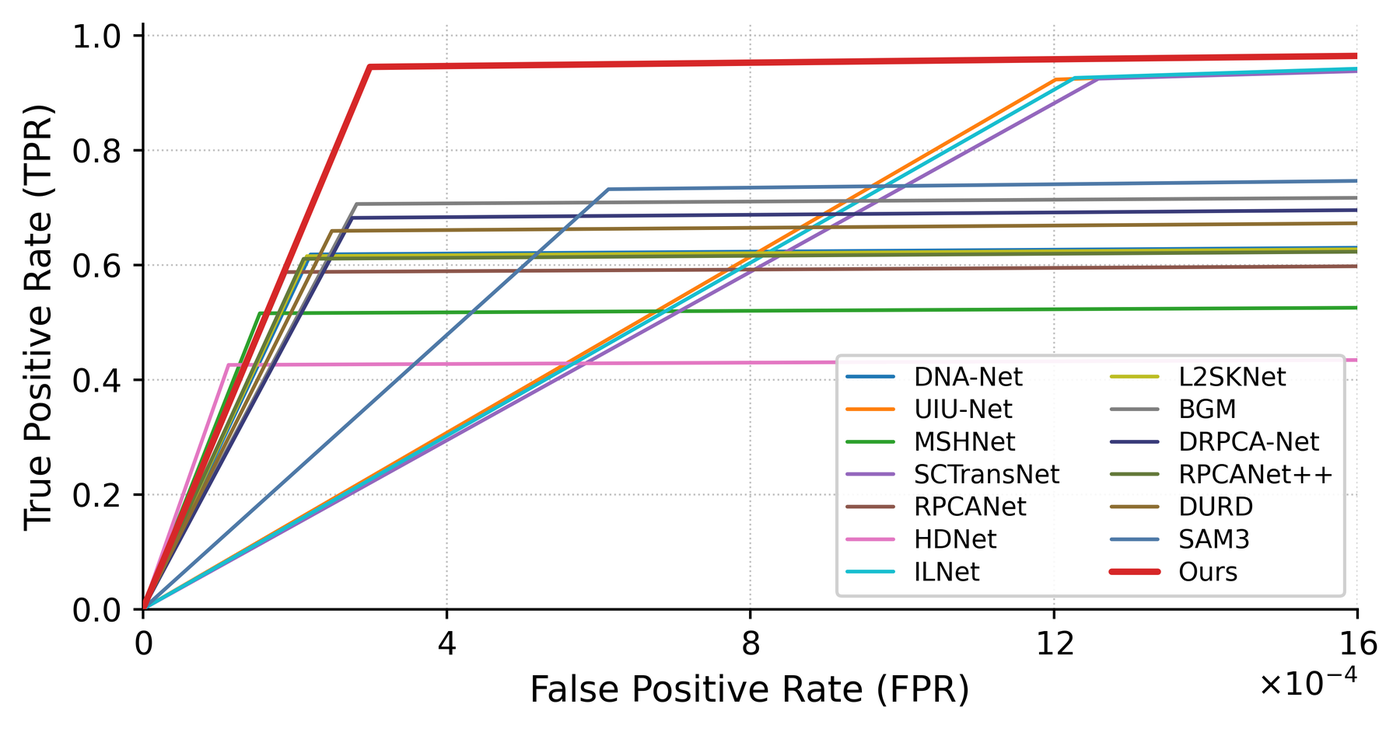
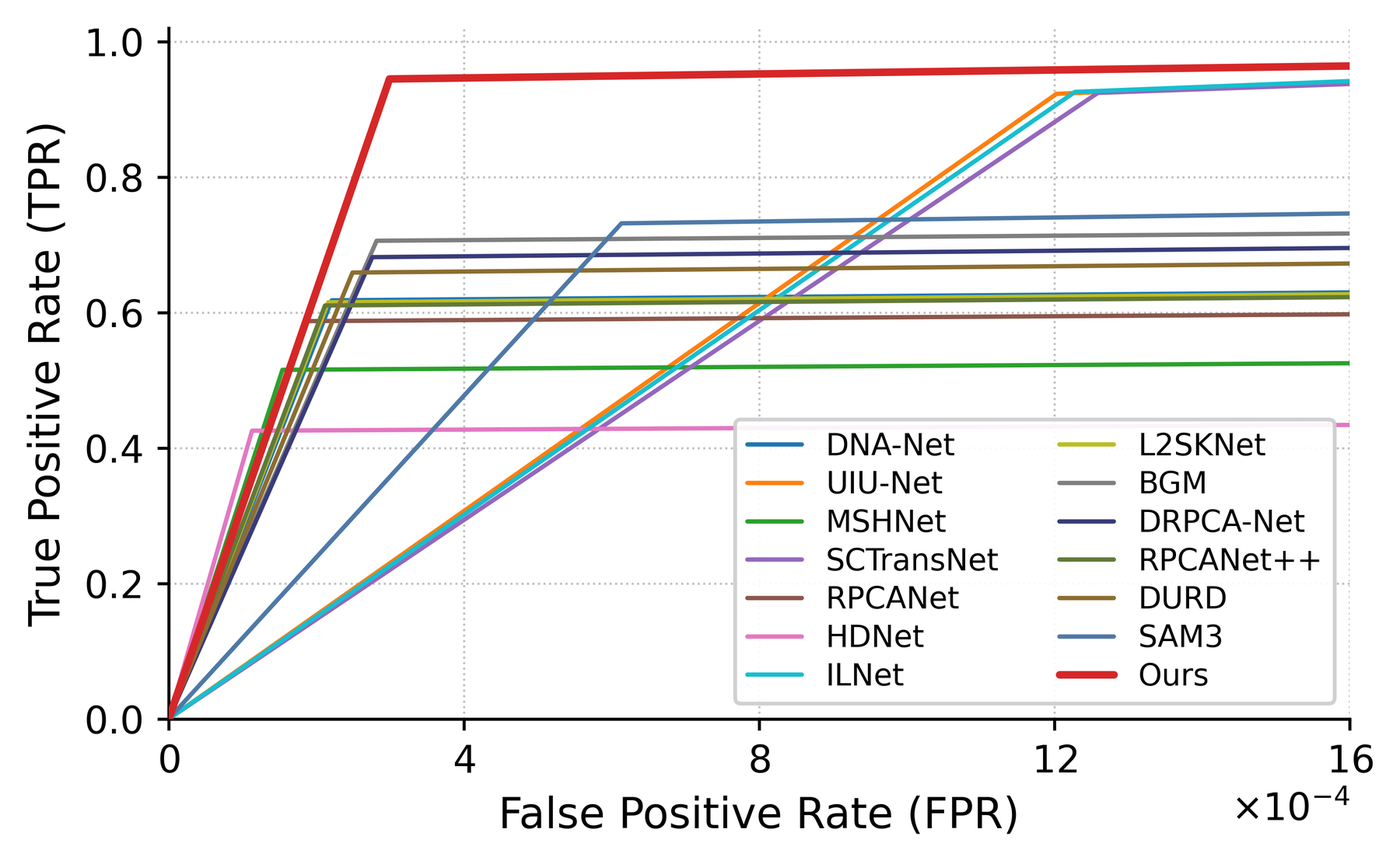
roc / pr_obj 画幅收窄到 1.62:1（底边缩短，高度不变）
- 原来 6.8x3.3 in（1.92:1，PNG 3645x1907）偏扁，宽度收到底边更短的比例：
  roc 用 --fig-width 5.6（高度仍 3.3），pr_obj 用 5.487x3.239 对齐，
  两张 PNG 同为 3087x1907（1.619:1）。
- 字号仍是 --font-scale 1.25，曲线样式（无点、实线、倒角、图例只写方法名）不变。
- 服务器同步：roc.png sha 437ffd29…、pr_obj.png 579505e1…；
  docs 预览与 AGENTS/README 的尺寸说明一并更新。

diff --git a/AGENTS.md b/AGENTS.md
@@ -67,7 +67,7 @@
 - 第三批（入表，行 29～32）：L2SKNet（TGRS25）、BGM（TGRS25）、DRPCA-Net（TGRS25）、DURD（TGRS26），均为 2025–2026 年、有官方代码的全监督单帧方法，12 个对比方法到此凑满。目录 `L2SKNet-main/`、`BGM-main/`、`DRPCA-Net-main/`、`DURD-main/`；训练设置：L2SKNet 150/Adam 5e-4、BGM 150/Adam 5e-4（两者模型输出已是概率，用概率空间 dataset 级 IoU）、DRPCA-Net 60/Adam 3e-5/dataset 级 SoftIoU + 0.01 MSE、DURD 100/Adam 1e-4/SoftIoU + 0.1 MSE。各处改动逐条写在对应实验记录与 [汇总](docs/Seal全监督基线评估汇总.md#训练不稳定与失败记录)。
 - 论文版式定性图（对齐 PDDiff Fig. 8/9）：[tools/build_paper_qualitative.py](tools/build_paper_qualitative.py)，每个样例两行（2D 二值面板 + 红框/放大插图；3D 响应面 `elev=26, azim=-64`、按面板 z 上限）。三条硬约束：① 3D 行必须喂**概率图**（`--surf-maps results/<M>/Seal/fullsup_test_maps`），二值图是 0/255 阶跃，画出来只有一根尖刺；② Seal 目标只有 3–5 px，`full` 版式（整幅 + 右下插图）在 0.87 in 列宽下几乎看不见，正式图用 `--roi-panels`（面板 = 6 倍放大 ROI，`--roi-min 64 --roi-margin 24`）；③ 11 列 × 11 样例按 9.6 in 出图，若按 7.2 in 排版表头掉到 5.6 pt，主图应拆成 `seal_pick6_roi` + `seal_pick5_roi` 两张。样例取 [docs/qualitative_rank_top200.json](docs/qualitative_rank_top200.json)（`score = F1(Ours) − mean_k F1(baseline_k)`，可用 [docs/qualitative_review_top200.html](docs/qualitative_review_top200.html) 逐图复核），当前采用排名 1,2,5,6,8,11,13,15,19,21,29 共 11 张，一键重建 [tools/make_paper_qualitative_pick.sh](tools/make_paper_qualitative_pick.sh)。Ours 预测在 `Ours/test_maps`（1,983 张概率图）、SAM3 在 `Ours/SAM3-test_maps`（同阈值 `>=128`）。版式规格、样例清单与读数见 [docs/Seal定性图_论文版式.md](docs/Seal定性图_论文版式.md)，预览 `docs/assets/seal_qualitative_pick6_roi.png`、`docs/assets/seal_qualitative_pick11_full.png`。全分辨率成品（600 dpi PNG + 矢量 PDF + meta，约 110 MB/版）按版本归档：服务器保留全部历史（v1 `Ours/qualitative/v1_20261104_11col/`、v2 `v2_20261105/`、v3 `v3_20261105/`、v4 `v4_20261105/`、v5 `v5_20261105/`、v6 `v6_20261105/`、v7 `v7_20261105/`、v8 `v8_20261105/`、v9 `v9_20261105/`、v10 `v10_20261105/`、v11 `v11_20261105/`、v12 `v12_20261105/`），本地只留最新一版在 `Ours/qualitative/v12_20261105/`；**整个 `Ours/qualitative/` 不进 git**（`.gitignore` 整目录排除，只有 `docs/assets/` 里的 1800 px 预览入库）。版式演进：v2 压紧列间距、3D 加网格 + 整数刻度 + 轴名、去掉黑色粗轴线；v3 加单图拆分与 Visio；v4 让 3D 盒子铺满格子（按格子尺寸渲染 PNG → 裁白边 → `aspect='auto'` 贴回）；**v5 解决「3D 白边仍偏大、峰不够高不够显眼」：裁边 26→6 px、平滑 σ 2.0→0.9、`vmax` 取平滑后峰值（峰顶到天花板）、Z 轴统一 0–255 保证跨列可比、盒子 z 比例 0.55→1.00、自定义 `seal3d` 色带（深蓝底→青→黄→亮红）+ `PowerNorm(0.45)`**；并新增 `--diag` 诊断面板（TP 白 / FP 红 / FN 绿 + 红框标 GT），Visio 改用诊断面板；**v6 把诊断面板的红框放大到至少占面板 36%（约 138 px、3 px 线）**；**v11：Ours 换成 1105 最新预测**（`Ours/test_maps` ← `1105Ours_result/Ours.zip`，旧预测存 `Ours/test_maps_20261105_prev`），版式同 v10；11 个样例在新预测下 F1 0.55–0.87、目标全检出（9 个胜全部基线，2 个仅比 SAM3 低 0.01–0.02），故沿用原 11 张；**v10 红框只留一个**：Image 列回到整幅 622×417（压缩成正方形）并画唯一一个正方形红框（v11 曾把边长统一为 `64×sqrt(sx·sy)≈48 px`；**v12 起 Image 列不再画任何红框**——统一 48 px 对 2688/2120/2894 三个大目标偏小、目标露到框外，而各列本来就是同一 ROI 的 6 倍放大，定位框不再必要，实测 Image 列 0 个红色像素；`--image-box` 仅保留为复现 v10/v11 的开关），Mask…Ours 不再画任何红框，保留 TP 白/FP 红/FN 绿；**v12 同时收紧 3D 刻度**：刻度数字向坐标轴收拢（x/y `pad` −3.0→−4.2、z −1.5→−2.2，字号 2.2→2.35），3D 渲染改用 `bbox_inches='tight'` 并统一贴到 848×804 画布（此前 3D 轴的数字画在 axes 之外、被画布直接裁掉，放进 Visio 后又被下一个样例的表头挡住），Visio `ALL` 页的 3D 图缩到 1.07 in 高（宽同比 1.129）让开下一块表头，2D 行与手画红框位置不动；`--image-mode crop417` 可换成 417×417 原比例窗口；**v9 去掉黑边**：ROI 从「以目标为中心后按边界裁」改成「固定边长正方形、贴边整体内移」，窗口永远完整落在图像内（此前 2735 这类贴右边界的样例裁成 64×43 后被补黑）；**v8 修正 Image 列**：原来它是整幅 622×417（红框=ROI 窗口），而 Mask/方法列是已经放大 6 倍的 ROI 块（红框=GT 定位框），两者天然不对应——现在 Image 列也取同一块 ROI 的 6 倍放大并套同一个定位框，11 列视野与框位置完全一致——红框是给人定位用的，v5 那版只比 GT 外扩 8 px，印刷尺寸下等于没有。**v7 再优化三点：① 3D 网格线 0.62 灰 / 0.45 pt、刻度数字 2.2 pt 近黑、每轴 3 个好刻度、去掉会撞车的 X/Y/Z 轴名；② Image 列 3D 改彩色（`seal3d` 色带 + 线性映射，与 PDDiff 一致）；③ 诊断面板遇到多目标时每个连通域各画一个红框（单目标 36% 面板、多目标 0.45/n）**。Visio 版由 [tools/make_visio_qualitative.ps1](tools/make_visio_qualitative.ps1) 用 Visio COM 生成（仅 Windows + 已装 Visio）：**第 1 页 `ALL` 把 11 个样例纵向摞成一页**（表头只出现一次，253 个形状，15×31.3 in），之后每样例一页（每页 34 个独立形状：表头矩形 + 22 张图片 + 页脚说明），全部可手动调整格式。
 - 定性图（论文拼图用）：12 个方法与 Ours 的二值预测图在 `results/<Method>/Seal/test_binary/`（1,983 张，`pixel >= 128` → 255），由 [tools/make_binary_maps.py](tools/make_binary_maps.py) 与 [tools/make_qualitative.sh](tools/make_qualitative.sh) 生成；样例拼图在服务器 `qualitative/<stem>/panel.png`（RGB/热红外/GT/预测叠加，13 行），样例清单 `docs/Seal定性对比样例.json`，说明见 [docs/Seal定性对比图.md](docs/Seal定性对比图.md)。
-- ROC / P-R / Pd–Fa 曲线：像素级曲线用 [tools/roc_hist.py](tools/roc_hist.py) 把预测值按 GT 前景（`gt > 127`）/背景分箱成 256 桶直方图（[tools/roc_hist_all.sh](tools/roc_hist_all.sh) → `results/roc_hist/<Method>.json`），目标级曲线用 [tools/target_curves.py](tools/target_curves.py) 在 63 个阈值上做 8 连通 + 质心 <3 px 一对一匹配（[tools/target_curves_all.sh](tools/target_curves_all.sh) 13 进程并行约 1.5 h → `results/target_curves/<Method>.json`）；出图分别是 [tools/plot_roc_pr.py](tools/plot_roc_pr.py) 与 [tools/plot_target_curves.py](tools/plot_target_curves.py)。产物按版本存 `Ours/roc_pr/<version>/`，**`v10_20261105/`（正文主图，Ours + 8 个重点对比方法：DNA-Net / MSHNet / RPCANet / HDNet / L2SKNet / BGM / RPCANet++ / SAM3）与 `v11_20261105/`（全量 14 条：再加 UIU-Net / SCTransNet / ILNet / DRPCA-Net / DURD）**，两者横轴都改成 **0–16×10⁻⁴（刻度 0/4/8/12/16）**，斜线因此更陡；**v10 用 1:1 坐标框（`--square`），v11 用 6.8×3.3 的长方形画布（不带 `--square`，约 1.92:1，用户偏好）**；`v9_20261105/`（全量）与 `v8_20261105/`（8 个）是 8×10⁻⁴ 宽扁版式的前身**，画法沿用 v5，Ours 红色加粗置顶（`--highlight Ours`）；`v7_20261105/` 是旧 Ours 预测的同一版式，`v6_20261105/` 是误删 Ours 的一版，二者仅留档；`v5_20261105/` 为 13 方法版（Ours + 12 基线），**`v12_20261105/` 为现行目标级 Pd–Fa（1105 批次，线性 + log）**，**`v13_20261105/` 是 v11 的 P-R 改进版**（画布、ROC 与 v11 逐点相同，只改 P-R 的显示：`--pr-min-pred 50000` + `--pr-endpoint-dot`，见下条），`v3_20261105/` 为旧预测的目标级版，`v4/v2/v1` 留档；每次同时存 PNG（600 dpi）与 PDF + `curves.json` + `summary.md`。**画法（用户明确要求）**：每个方法一条折线且只有两段直线——`(0,0) → 拐点 → (右边框, 平台)`；平台取右边框处的值（像素级 = TPR@FPR=窗口右端，目标级 = max Pd），拐点 = 沿横轴升序第一个 ≥0.98×平台 的点（`--two-segment`、`--knee-frac`）。横轴要够长（v10/v11 用 `--xmax 16e-4 --fig-width 4.8 --square`；v8/v9 为 `--xmax 8e-4 --fig-width 6.8`），否则平台贴右边框、看起来"戛然而止"；**`--square` 把坐标框设成 1:1**（`set_box_aspect(1)`），ROC 的斜线与纵轴夹角更小、P-R 是标准 45°；**`--legend-inside` 把图例放进坐标框**（ROC 右下、P-R 左下，>9 条自动两列），导出的 PNG 因此更紧凑（v10 正方形 2645×2564；v11 长方形 3589×1871）；两联图 `roc_pr` 的面板间距 0.28→0.14；改横轴时平台值按新的右边框取（`TPR@窗口右端`），所以 8→16×10⁻⁴ 后 SCTransNet/ILNet/UIU-Net 的平台从 0.88 升到 0.94；**面积指标仍报 `pAUC@5×10⁻⁴`**，该列不随画宽变化；P-R 保留 (0,1) 起点与 recall→1 的尾巴（`--pr-style v1`）；**P-R 为什么像"扇子且在半空截断"（v13 处理）**：Seal 预测是 8 位量化 + 大量硬零（`t=255` 时前景召回只有 0.25–0.61，多数方法在 28–57 % 的 GT 像素上恒为 0），recall 到不了 1，曲线右端自然停住；同时 `t` 接近 255 时整幅只剩几千个预测像素，precision 由个位数像素决定，于是 recall≈0 处冒出竖直毛刺、各条曲线分叉成扇面。v13 用两个**纯显示**开关处理、不动数据：`--pr-min-pred 50000` 丢掉"预测像素 < 5 万"的阈值（毛刺缩到几乎看不见）、`--pr-endpoint-dot` 在每条曲线末端加圆点（读作"到此为止"而非"画漏了"）；仍保留 (0,1) 哨兵，因为去掉后起点悬空（`--pr-style v2` 试过）。数据侧原因（硬零压低 recall）只能靠模型/后处理改，画图解决不了，分析见 [docs/Seal_ROC_PR曲线.md](docs/Seal_ROC_PR曲线.md)；**补充图 `v13_20261105/pr_1.{png,pdf}`**（`--pr-close`）把每条曲线从最后实测点**虚线**外推到 `(1,0)`、交接点画空心圆（实线=实测、虚线=外推）：这不是新数据，只说明"曲线本来就该到 (1,0)"——`recall=1` 时 precision 等于前景占比（Seal test 前景 105,712 px / 总 514,338,642 px = **2.06×10⁻⁴**），在 0–1 纵轴上即 0，所以补到 (1,0) 与补到 (1,2e-4) 肉眼无差；中间段按直线近似故称"大致"，虚线段不参与 pAUC/AP 积分，排名不变；补齐后各虚线在右下角**收成一束**是应有现象，不表示方法接近；**教科书式 P-R 两张补充图**：`v13_20261105/pr_2.{png,pdf}`（像素级、sklearn 惯例：256 个阈值含 `t=0`"全预测"、保留 (0,1) 哨兵，曲线自然终止于 (1,0)，AP 与 summary 一致 0.69984）与 `v13_20261105/pr_obj.{png,pdf}`（**对象级**：`recall` = 表中 Pd、`precision` = 匹配连通域 / 全部预测连通域，匹配规则与 Pd/Fa 相同；`t=128` 的 recall 与表中 Pd 逐位吻合、精度 Ours 0.960 vs 基线 0.66–0.75，Ours AP 0.890 vs 0.544–0.596，形状与参考图同形"高平台 + 右端陡降"，末端用实线同色补到 (1,0)、不画点、拐角 `--corner-radius 0.03` 贝塞尔倒角，**图例只写方法名**（AP 见 [docs/Seal_ROC_PR曲线.md](docs/Seal_ROC_PR曲线.md) 的表，要标回图上加 `--show-ap`）；**字号**：`roc` 与 `pr_obj` 用 `--font-scale 1.25` 出图（轴标签 9→11.25 pt、刻度 8→10 pt、图例 6.4→8 pt），两张 PNG 同为 3645×1907（`plot_roc_pr.py`、`plot_pr_object.py` 都带该开关，默认 1.0；v13 的 `pr.png`/`roc_pr.png` 仍是 1.0 版）；图注须写明 0.71–0.92 → 1.0 那段不是实测，因对象级召回上限只有 0.71–0.92））；实现 [tools/target_pr.py](tools/target_pr.py)（输出 `results/target_pr/<stem>.json`，[tools/target_pr_all.sh](tools/target_pr_all.sh) 并行约 12 min）、[tools/plot_pr_object.py](tools/plot_pr_object.py)、[tools/plot_pr_textbook.py](tools/plot_pr_textbook.py)；**参考图"精度贴 1.0 平推"像素级做不到**——0.02 % 前景下 255 这一筒的精度只有 Ours 0.835、SAM3 0.651、DNA-Net 0.390，像素级只能从 0.83 起步；正文若配像素级 ROC 用 `pr_2`，配目标级 Pd–Fa（v12）用 `pr_obj`，两者 AP 不可互比、都不进 xlsx；图例贴紧坐标轴右缘（`bbox_to_anchor=(ax.x1+0.012, …)`，锚在固定图幅比例上会留一大片空白）；`--highlight` 指定加粗置顶的方法（默认 `Ours`，方法集里没有它时不加粗）；**红色只留给 highlight**，其余曲线从不含红色的 16 色调色板里取（`color_map()`），否则 14 条曲线时第一个基线和 Ours 会同为红色。**一致性**：像素级 `t=128` 的 precision/recall 可复原表中 F1/IoU（Ours precision 0.58130、recall 0.82963 → F1 0.68361、IoU 0.51931，与第 20 行一致；旧预测同点为 0.64637/0.59388 → 0.61912/0.44835）；目标级 `t=128` 的 Pd/Fa 与表中 13 行全部逐位吻合（Ours 0.89151 / 1.717e-05，与第 20 行一致；旧预测 0.82731 / 2.100e-06 存档于 `results/target_curves/Ours_prev_20261105.json`）。**读图**：① 面积指标报 **pAUC@5×10⁻⁴**（基线操作点 Fa@t=128 ≤ 2.4×10⁻⁴）；v8 换上 1105 的最新 Ours 后，两个窗口的 pAUC（**0.85234 / 0.89420**）与 AP（**0.69984**）都第一，像素 TPR@t=128 从 0.594 提到 **0.830**、FPR 从 6.7×10⁻⁵ 升到 1.2×10⁻⁴（仍是 9 个里第二低）；ROC 上 Ours 在 FPR≈3×10⁻⁴ 就到 0.94 平台，其余 8 个最高只有 0.737；SAM3 平台最高（0.737）但拐点在 4.9×10⁻⁴、Fa 是 Ours 的 3.6 倍，属"用更多误检换更高检出"，正文要把 Fa 一并给出；画到 8×10⁻⁴ 后按窗口积的 `pAUC@8×10⁻⁴` 会把弥散输出方法抬高，summary 两个窗口都列；② 全范围 AUC 不能用来排名（几乎不预测前景的方法 0.977–0.981），与 S/MAE 被背景主导同类；③ 目标级图（`v12_20261105/`，1105 批次）Ours 平台 Pd 0.922 最高、拐点 Fa 6.0×10⁻⁶ 比次优 HDNet（5.2×10⁻⁵）低 8.6 倍，拐点 Fa 跨度 17 倍，**目标级仍主推 log 轴**；④ 像素级 `Pd@t=128` 是前景像素召回率，与表中目标级 Pd 不同口径。曲线成品按同样目录结构同步到服务器 `Ours/roc_pr/`，重画脚本同步在服务器 `tools/`；1105 的 Ours 预测包同时上传到服务器 `Ours/1105Ours_result/Ours.zip`。**曲线与第 20 行 Ours 的八项指标现在同为 1105 这批预测**，可以互相引证；旧预测（`test_maps_20261105_prev`）的曲线与指标只作历史对照。口径、版本对照与复现命令见 [docs/Seal_ROC_PR曲线.md](docs/Seal_ROC_PR曲线.md)，预览 `docs/assets/seal_roc_pr_v13.png`（现行，全量 14 条）、`docs/assets/seal_roc_pr_v10.png`（8 个对比方法版）、`docs/assets/seal_pd_fa_v12.png`（现行目标级）、`docs/assets/seal_pd_fa_v3.png`（旧预测目标级）。
+- ROC / P-R / Pd–Fa 曲线：像素级曲线用 [tools/roc_hist.py](tools/roc_hist.py) 把预测值按 GT 前景（`gt > 127`）/背景分箱成 256 桶直方图（[tools/roc_hist_all.sh](tools/roc_hist_all.sh) → `results/roc_hist/<Method>.json`），目标级曲线用 [tools/target_curves.py](tools/target_curves.py) 在 63 个阈值上做 8 连通 + 质心 <3 px 一对一匹配（[tools/target_curves_all.sh](tools/target_curves_all.sh) 13 进程并行约 1.5 h → `results/target_curves/<Method>.json`）；出图分别是 [tools/plot_roc_pr.py](tools/plot_roc_pr.py) 与 [tools/plot_target_curves.py](tools/plot_target_curves.py)。产物按版本存 `Ours/roc_pr/<version>/`，**`v10_20261105/`（正文主图，Ours + 8 个重点对比方法：DNA-Net / MSHNet / RPCANet / HDNet / L2SKNet / BGM / RPCANet++ / SAM3）与 `v11_20261105/`（全量 14 条：再加 UIU-Net / SCTransNet / ILNet / DRPCA-Net / DURD）**，两者横轴都改成 **0–16×10⁻⁴（刻度 0/4/8/12/16）**，斜线因此更陡；**v10 用 1:1 坐标框（`--square`），v11 用 6.8×3.3 的长方形画布（不带 `--square`，约 1.92:1，用户偏好）**；`v9_20261105/`（全量）与 `v8_20261105/`（8 个）是 8×10⁻⁴ 宽扁版式的前身**，画法沿用 v5，Ours 红色加粗置顶（`--highlight Ours`）；`v7_20261105/` 是旧 Ours 预测的同一版式，`v6_20261105/` 是误删 Ours 的一版，二者仅留档；`v5_20261105/` 为 13 方法版（Ours + 12 基线），**`v12_20261105/` 为现行目标级 Pd–Fa（1105 批次，线性 + log）**，**`v13_20261105/` 是 v11 的 P-R 改进版**（画布、ROC 与 v11 逐点相同，只改 P-R 的显示：`--pr-min-pred 50000` + `--pr-endpoint-dot`，见下条），`v3_20261105/` 为旧预测的目标级版，`v4/v2/v1` 留档；每次同时存 PNG（600 dpi）与 PDF + `curves.json` + `summary.md`。**画法（用户明确要求）**：每个方法一条折线且只有两段直线——`(0,0) → 拐点 → (右边框, 平台)`；平台取右边框处的值（像素级 = TPR@FPR=窗口右端，目标级 = max Pd），拐点 = 沿横轴升序第一个 ≥0.98×平台 的点（`--two-segment`、`--knee-frac`）。横轴要够长（v10/v11 用 `--xmax 16e-4 --fig-width 4.8 --square`；v8/v9 为 `--xmax 8e-4 --fig-width 6.8`），否则平台贴右边框、看起来"戛然而止"；**`--square` 把坐标框设成 1:1**（`set_box_aspect(1)`），ROC 的斜线与纵轴夹角更小、P-R 是标准 45°；**`--legend-inside` 把图例放进坐标框**（ROC 右下、P-R 左下，>9 条自动两列），导出的 PNG 因此更紧凑（v10 正方形 2645×2564；v11 长方形 3589×1871）；两联图 `roc_pr` 的面板间距 0.28→0.14；改横轴时平台值按新的右边框取（`TPR@窗口右端`），所以 8→16×10⁻⁴ 后 SCTransNet/ILNet/UIU-Net 的平台从 0.88 升到 0.94；**面积指标仍报 `pAUC@5×10⁻⁴`**，该列不随画宽变化；P-R 保留 (0,1) 起点与 recall→1 的尾巴（`--pr-style v1`）；**P-R 为什么像"扇子且在半空截断"（v13 处理）**：Seal 预测是 8 位量化 + 大量硬零（`t=255` 时前景召回只有 0.25–0.61，多数方法在 28–57 % 的 GT 像素上恒为 0），recall 到不了 1，曲线右端自然停住；同时 `t` 接近 255 时整幅只剩几千个预测像素，precision 由个位数像素决定，于是 recall≈0 处冒出竖直毛刺、各条曲线分叉成扇面。v13 用两个**纯显示**开关处理、不动数据：`--pr-min-pred 50000` 丢掉"预测像素 < 5 万"的阈值（毛刺缩到几乎看不见）、`--pr-endpoint-dot` 在每条曲线末端加圆点（读作"到此为止"而非"画漏了"）；仍保留 (0,1) 哨兵，因为去掉后起点悬空（`--pr-style v2` 试过）。数据侧原因（硬零压低 recall）只能靠模型/后处理改，画图解决不了，分析见 [docs/Seal_ROC_PR曲线.md](docs/Seal_ROC_PR曲线.md)；**补充图 `v13_20261105/pr_1.{png,pdf}`**（`--pr-close`）把每条曲线从最后实测点**虚线**外推到 `(1,0)`、交接点画空心圆（实线=实测、虚线=外推）：这不是新数据，只说明"曲线本来就该到 (1,0)"——`recall=1` 时 precision 等于前景占比（Seal test 前景 105,712 px / 总 514,338,642 px = **2.06×10⁻⁴**），在 0–1 纵轴上即 0，所以补到 (1,0) 与补到 (1,2e-4) 肉眼无差；中间段按直线近似故称"大致"，虚线段不参与 pAUC/AP 积分，排名不变；补齐后各虚线在右下角**收成一束**是应有现象，不表示方法接近；**教科书式 P-R 两张补充图**：`v13_20261105/pr_2.{png,pdf}`（像素级、sklearn 惯例：256 个阈值含 `t=0`"全预测"、保留 (0,1) 哨兵，曲线自然终止于 (1,0)，AP 与 summary 一致 0.69984）与 `v13_20261105/pr_obj.{png,pdf}`（**对象级**：`recall` = 表中 Pd、`precision` = 匹配连通域 / 全部预测连通域，匹配规则与 Pd/Fa 相同；`t=128` 的 recall 与表中 Pd 逐位吻合、精度 Ours 0.960 vs 基线 0.66–0.75，Ours AP 0.890 vs 0.544–0.596，形状与参考图同形"高平台 + 右端陡降"，末端用实线同色补到 (1,0)、不画点、拐角 `--corner-radius 0.03` 贝塞尔倒角，**图例只写方法名**（AP 见 [docs/Seal_ROC_PR曲线.md](docs/Seal_ROC_PR曲线.md) 的表，要标回图上加 `--show-ap`）；**字号**：`roc` 与 `pr_obj` 用 `--font-scale 1.25` 出图（轴标签 9→11.25 pt、刻度 8→10 pt、图例 6.4→8 pt），画幅同步收窄到 **1.62:1**（`--fig-width 5.6`，高度固定 3.3；pr_obj 用 5.487×3.239 对齐），两张 PNG 同为 3087×1907（`plot_roc_pr.py`、`plot_pr_object.py` 都带 `--font-scale`，默认 1.0；v13 的 `pr.png`/`roc_pr.png` 仍是 1.0 版、1.92:1 宽幅）；图注须写明 0.71–0.92 → 1.0 那段不是实测，因对象级召回上限只有 0.71–0.92））；实现 [tools/target_pr.py](tools/target_pr.py)（输出 `results/target_pr/<stem>.json`，[tools/target_pr_all.sh](tools/target_pr_all.sh) 并行约 12 min）、[tools/plot_pr_object.py](tools/plot_pr_object.py)、[tools/plot_pr_textbook.py](tools/plot_pr_textbook.py)；**参考图"精度贴 1.0 平推"像素级做不到**——0.02 % 前景下 255 这一筒的精度只有 Ours 0.835、SAM3 0.651、DNA-Net 0.390，像素级只能从 0.83 起步；正文若配像素级 ROC 用 `pr_2`，配目标级 Pd–Fa（v12）用 `pr_obj`，两者 AP 不可互比、都不进 xlsx；图例贴紧坐标轴右缘（`bbox_to_anchor=(ax.x1+0.012, …)`，锚在固定图幅比例上会留一大片空白）；`--highlight` 指定加粗置顶的方法（默认 `Ours`，方法集里没有它时不加粗）；**红色只留给 highlight**，其余曲线从不含红色的 16 色调色板里取（`color_map()`），否则 14 条曲线时第一个基线和 Ours 会同为红色。**一致性**：像素级 `t=128` 的 precision/recall 可复原表中 F1/IoU（Ours precision 0.58130、recall 0.82963 → F1 0.68361、IoU 0.51931，与第 20 行一致；旧预测同点为 0.64637/0.59388 → 0.61912/0.44835）；目标级 `t=128` 的 Pd/Fa 与表中 13 行全部逐位吻合（Ours 0.89151 / 1.717e-05，与第 20 行一致；旧预测 0.82731 / 2.100e-06 存档于 `results/target_curves/Ours_prev_20261105.json`）。**读图**：① 面积指标报 **pAUC@5×10⁻⁴**（基线操作点 Fa@t=128 ≤ 2.4×10⁻⁴）；v8 换上 1105 的最新 Ours 后，两个窗口的 pAUC（**0.85234 / 0.89420**）与 AP（**0.69984**）都第一，像素 TPR@t=128 从 0.594 提到 **0.830**、FPR 从 6.7×10⁻⁵ 升到 1.2×10⁻⁴（仍是 9 个里第二低）；ROC 上 Ours 在 FPR≈3×10⁻⁴ 就到 0.94 平台，其余 8 个最高只有 0.737；SAM3 平台最高（0.737）但拐点在 4.9×10⁻⁴、Fa 是 Ours 的 3.6 倍，属"用更多误检换更高检出"，正文要把 Fa 一并给出；画到 8×10⁻⁴ 后按窗口积的 `pAUC@8×10⁻⁴` 会把弥散输出方法抬高，summary 两个窗口都列；② 全范围 AUC 不能用来排名（几乎不预测前景的方法 0.977–0.981），与 S/MAE 被背景主导同类；③ 目标级图（`v12_20261105/`，1105 批次）Ours 平台 Pd 0.922 最高、拐点 Fa 6.0×10⁻⁶ 比次优 HDNet（5.2×10⁻⁵）低 8.6 倍，拐点 Fa 跨度 17 倍，**目标级仍主推 log 轴**；④ 像素级 `Pd@t=128` 是前景像素召回率，与表中目标级 Pd 不同口径。曲线成品按同样目录结构同步到服务器 `Ours/roc_pr/`，重画脚本同步在服务器 `tools/`；1105 的 Ours 预测包同时上传到服务器 `Ours/1105Ours_result/Ours.zip`。**曲线与第 20 行 Ours 的八项指标现在同为 1105 这批预测**，可以互相引证；旧预测（`test_maps_20261105_prev`）的曲线与指标只作历史对照。口径、版本对照与复现命令见 [docs/Seal_ROC_PR曲线.md](docs/Seal_ROC_PR曲线.md)，预览 `docs/assets/seal_roc_pr_v13.png`（现行，全量 14 条）、`docs/assets/seal_roc_pr_v10.png`（8 个对比方法版）、`docs/assets/seal_pd_fa_v12.png`（现行目标级）、`docs/assets/seal_pd_fa_v3.png`（旧预测目标级）。
 - IoU 的边界敏感性：Seal 目标平均 14.3 像素，把 GT 膨胀/腐蚀 1 像素当预测只能得到 IoU 0.3910 / 0.0826；表中 IoU 0.19–0.31 对应约 1–2 像素边界误差，不能读作分割质量百分比，须与 Fw/F1/Pd/Fa 合看，详见 [定义对照](docs/小目标评价指标_定义与代码对照.md#iou-的边界敏感性seal-gt-实测)。
 - 实验记录：[ACM](docs/ACM_Seal实验记录.md)、[DNA-Net](docs/DNANet_Seal实验记录.md)、[MSHNet](docs/MSHNet_Seal实验记录.md)、[UIU-Net](docs/UIU-Net_Seal实验记录.md)、[SCTransNet](docs/SCTransNet_Seal实验记录.md)、[RPCANet](docs/RPCANet_Seal实验记录.md)、[HDNet](docs/HDNet_Seal实验记录.md)、[ILNet](docs/ILNet_Seal实验记录.md)、[RPCANet++](docs/RPCANet++_Seal实验记录.md)、[L2SKNet](docs/L2SKNet_Seal实验记录.md)、[BGM](docs/BGM_Seal实验记录.md)、[DRPCA-Net](docs/DRPCA-Net_Seal实验记录.md)、[DURD](docs/DURD_Seal实验记录.md)、[DHiF](docs/DHiF_Seal实验记录.md)，汇总见 [Seal全监督基线评估汇总](docs/Seal全监督基线评估汇总.md)，定性图见 [Seal定性对比图](docs/Seal定性对比图.md)。
 

diff --git a/README.md b/README.md
@@ -70,7 +70,7 @@
 - 第三批（入表，行 29～32）：L2SKNet（TGRS25）、BGM（TGRS25）、DRPCA-Net（TGRS25）、DURD（TGRS26），均为 2025–2026 年、有官方代码的全监督单帧方法，12 个对比方法到此凑满。目录 `L2SKNet-main/`、`BGM-main/`、`DRPCA-Net-main/`、`DURD-main/`；训练设置：L2SKNet 150/Adam 5e-4、BGM 150/Adam 5e-4（两者模型输出已是概率，用概率空间 dataset 级 IoU）、DRPCA-Net 60/Adam 3e-5/dataset 级 SoftIoU + 0.01 MSE、DURD 100/Adam 1e-4/SoftIoU + 0.1 MSE。各处改动逐条写在对应实验记录与 [汇总](docs/Seal全监督基线评估汇总.md#训练不稳定与失败记录)。
 - 论文版式定性图（对齐 PDDiff Fig. 8/9）：[tools/build_paper_qualitative.py](tools/build_paper_qualitative.py)，每个样例两行（2D 二值面板 + 红框/放大插图；3D 响应面 `elev=26, azim=-64`、按面板 z 上限）。三条硬约束：① 3D 行必须喂**概率图**（`--surf-maps results/<M>/Seal/fullsup_test_maps`），二值图是 0/255 阶跃，画出来只有一根尖刺；② Seal 目标只有 3–5 px，`full` 版式（整幅 + 右下插图）在 0.87 in 列宽下几乎看不见，正式图用 `--roi-panels`（面板 = 6 倍放大 ROI，`--roi-min 64 --roi-margin 24`）；③ 11 列 × 11 样例按 9.6 in 出图，若按 7.2 in 排版表头掉到 5.6 pt，主图应拆成 `seal_pick6_roi` + `seal_pick5_roi` 两张。样例取 [docs/qualitative_rank_top200.json](docs/qualitative_rank_top200.json)（`score = F1(Ours) − mean_k F1(baseline_k)`，可用 [docs/qualitative_review_top200.html](docs/qualitative_review_top200.html) 逐图复核），当前采用排名 1,2,5,6,8,11,13,15,19,21,29 共 11 张，一键重建 [tools/make_paper_qualitative_pick.sh](tools/make_paper_qualitative_pick.sh)。Ours 预测在 `Ours/test_maps`（1,983 张概率图）、SAM3 在 `Ours/SAM3-test_maps`（同阈值 `>=128`）。版式规格、样例清单与读数见 [docs/Seal定性图_论文版式.md](docs/Seal定性图_论文版式.md)，预览 `docs/assets/seal_qualitative_pick6_roi.png`、`docs/assets/seal_qualitative_pick11_full.png`。全分辨率成品（600 dpi PNG + 矢量 PDF + meta，约 110 MB/版）按版本归档：服务器保留全部历史（v1 `Ours/qualitative/v1_20261104_11col/`、v2 `v2_20261105/`、v3 `v3_20261105/`、v4 `v4_20261105/`、v5 `v5_20261105/`、v6 `v6_20261105/`、v7 `v7_20261105/`、v8 `v8_20261105/`、v9 `v9_20261105/`、v10 `v10_20261105/`、v11 `v11_20261105/`、v12 `v12_20261105/`），本地只留最新一版在 `Ours/qualitative/v12_20261105/`；**整个 `Ours/qualitative/` 不进 git**（`.gitignore` 整目录排除，只有 `docs/assets/` 里的 1800 px 预览入库）。版式演进：v2 压紧列间距、3D 加网格 + 整数刻度 + 轴名、去掉黑色粗轴线；v3 加单图拆分与 Visio；v4 让 3D 盒子铺满格子（按格子尺寸渲染 PNG → 裁白边 → `aspect='auto'` 贴回）；**v5 解决「3D 白边仍偏大、峰不够高不够显眼」：裁边 26→6 px、平滑 σ 2.0→0.9、`vmax` 取平滑后峰值（峰顶到天花板）、Z 轴统一 0–255 保证跨列可比、盒子 z 比例 0.55→1.00、自定义 `seal3d` 色带（深蓝底→青→黄→亮红）+ `PowerNorm(0.45)`**；并新增 `--diag` 诊断面板（TP 白 / FP 红 / FN 绿 + 红框标 GT），Visio 改用诊断面板；**v6 把诊断面板的红框放大到至少占面板 36%（约 138 px、3 px 线）**；**v11：Ours 换成 1105 最新预测**（`Ours/test_maps` ← `1105Ours_result/Ours.zip`，旧预测存 `Ours/test_maps_20261105_prev`），版式同 v10；11 个样例在新预测下 F1 0.55–0.87、目标全检出（9 个胜全部基线，2 个仅比 SAM3 低 0.01–0.02），故沿用原 11 张；**v10 红框只留一个**：Image 列回到整幅 622×417（压缩成正方形）并画唯一一个正方形红框（v11 曾把边长统一为 `64×sqrt(sx·sy)≈48 px`；**v12 起 Image 列不再画任何红框**——统一 48 px 对 2688/2120/2894 三个大目标偏小、目标露到框外，而各列本来就是同一 ROI 的 6 倍放大，定位框不再必要，实测 Image 列 0 个红色像素；`--image-box` 仅保留为复现 v10/v11 的开关），Mask…Ours 不再画任何红框，保留 TP 白/FP 红/FN 绿；**v12 同时收紧 3D 刻度**：刻度数字向坐标轴收拢（x/y `pad` −3.0→−4.2、z −1.5→−2.2，字号 2.2→2.35），3D 渲染改用 `bbox_inches='tight'` 并统一贴到 848×804 画布（此前 3D 轴的数字画在 axes 之外、被画布直接裁掉，放进 Visio 后又被下一个样例的表头挡住），Visio `ALL` 页的 3D 图缩到 1.07 in 高（宽同比 1.129）让开下一块表头，2D 行与手画红框位置不动；`--image-mode crop417` 可换成 417×417 原比例窗口；**v9 去掉黑边**：ROI 从「以目标为中心后按边界裁」改成「固定边长正方形、贴边整体内移」，窗口永远完整落在图像内（此前 2735 这类贴右边界的样例裁成 64×43 后被补黑）；**v8 修正 Image 列**：原来它是整幅 622×417（红框=ROI 窗口），而 Mask/方法列是已经放大 6 倍的 ROI 块（红框=GT 定位框），两者天然不对应——现在 Image 列也取同一块 ROI 的 6 倍放大并套同一个定位框，11 列视野与框位置完全一致——红框是给人定位用的，v5 那版只比 GT 外扩 8 px，印刷尺寸下等于没有。**v7 再优化三点：① 3D 网格线 0.62 灰 / 0.45 pt、刻度数字 2.2 pt 近黑、每轴 3 个好刻度、去掉会撞车的 X/Y/Z 轴名；② Image 列 3D 改彩色（`seal3d` 色带 + 线性映射，与 PDDiff 一致）；③ 诊断面板遇到多目标时每个连通域各画一个红框（单目标 36% 面板、多目标 0.45/n）**。Visio 版由 [tools/make_visio_qualitative.ps1](tools/make_visio_qualitative.ps1) 用 Visio COM 生成（仅 Windows + 已装 Visio）：**第 1 页 `ALL` 把 11 个样例纵向摞成一页**（表头只出现一次，253 个形状，15×31.3 in），之后每样例一页（每页 34 个独立形状：表头矩形 + 22 张图片 + 页脚说明），全部可手动调整格式。
 - 定性图（论文拼图用）：12 个方法与 Ours 的二值预测图在 `results/<Method>/Seal/test_binary/`（1,983 张，`pixel >= 128` → 255），由 [tools/make_binary_maps.py](tools/make_binary_maps.py) 与 [tools/make_qualitative.sh](tools/make_qualitative.sh) 生成；样例拼图在服务器 `qualitative/<stem>/panel.png`（RGB/热红外/GT/预测叠加，13 行），样例清单 `docs/Seal定性对比样例.json`，说明见 [docs/Seal定性对比图.md](docs/Seal定性对比图.md)。
-- ROC / P-R / Pd–Fa 曲线：像素级曲线用 [tools/roc_hist.py](tools/roc_hist.py) 把预测值按 GT 前景（`gt > 127`）/背景分箱成 256 桶直方图（[tools/roc_hist_all.sh](tools/roc_hist_all.sh) → `results/roc_hist/<Method>.json`），目标级曲线用 [tools/target_curves.py](tools/target_curves.py) 在 63 个阈值上做 8 连通 + 质心 <3 px 一对一匹配（[tools/target_curves_all.sh](tools/target_curves_all.sh) 13 进程并行约 1.5 h → `results/target_curves/<Method>.json`）；出图分别是 [tools/plot_roc_pr.py](tools/plot_roc_pr.py) 与 [tools/plot_target_curves.py](tools/plot_target_curves.py)。产物按版本存 `Ours/roc_pr/<version>/`，**`v10_20261105/`（正文主图，Ours + 8 个重点对比方法：DNA-Net / MSHNet / RPCANet / HDNet / L2SKNet / BGM / RPCANet++ / SAM3）与 `v11_20261105/`（全量 14 条：再加 UIU-Net / SCTransNet / ILNet / DRPCA-Net / DURD）**，两者横轴都改成 **0–16×10⁻⁴（刻度 0/4/8/12/16）**，斜线因此更陡；**v10 用 1:1 坐标框（`--square`），v11 用 6.8×3.3 的长方形画布（不带 `--square`，约 1.92:1，用户偏好）**；`v9_20261105/`（全量）与 `v8_20261105/`（8 个）是 8×10⁻⁴ 宽扁版式的前身**，画法沿用 v5，Ours 红色加粗置顶（`--highlight Ours`）；`v7_20261105/` 是旧 Ours 预测的同一版式，`v6_20261105/` 是误删 Ours 的一版，二者仅留档；`v5_20261105/` 为 13 方法版（Ours + 12 基线），**`v12_20261105/` 为现行目标级 Pd–Fa（1105 批次，线性 + log）**，**`v13_20261105/` 是 v11 的 P-R 改进版**（画布、ROC 与 v11 逐点相同，只改 P-R 的显示：`--pr-min-pred 50000` + `--pr-endpoint-dot`，见下条），`v3_20261105/` 为旧预测的目标级版，`v4/v2/v1` 留档；每次同时存 PNG（600 dpi）与 PDF + `curves.json` + `summary.md`。**画法（用户明确要求）**：每个方法一条折线且只有两段直线——`(0,0) → 拐点 → (右边框, 平台)`；平台取右边框处的值（像素级 = TPR@FPR=窗口右端，目标级 = max Pd），拐点 = 沿横轴升序第一个 ≥0.98×平台 的点（`--two-segment`、`--knee-frac`）。横轴要够长（v10/v11 用 `--xmax 16e-4 --fig-width 4.8 --square`；v8/v9 为 `--xmax 8e-4 --fig-width 6.8`），否则平台贴右边框、看起来"戛然而止"；**`--square` 把坐标框设成 1:1**（`set_box_aspect(1)`），ROC 的斜线与纵轴夹角更小、P-R 是标准 45°；**`--legend-inside` 把图例放进坐标框**（ROC 右下、P-R 左下，>9 条自动两列），导出的 PNG 因此更紧凑（v10 正方形 2645×2564；v11 长方形 3589×1871）；两联图 `roc_pr` 的面板间距 0.28→0.14；改横轴时平台值按新的右边框取（`TPR@窗口右端`），所以 8→16×10⁻⁴ 后 SCTransNet/ILNet/UIU-Net 的平台从 0.88 升到 0.94；**面积指标仍报 `pAUC@5×10⁻⁴`**，该列不随画宽变化；P-R 保留 (0,1) 起点与 recall→1 的尾巴（`--pr-style v1`）；**P-R 为什么像"扇子且在半空截断"（v13 处理）**：Seal 预测是 8 位量化 + 大量硬零（`t=255` 时前景召回只有 0.25–0.61，多数方法在 28–57 % 的 GT 像素上恒为 0），recall 到不了 1，曲线右端自然停住；同时 `t` 接近 255 时整幅只剩几千个预测像素，precision 由个位数像素决定，于是 recall≈0 处冒出竖直毛刺、各条曲线分叉成扇面。v13 用两个**纯显示**开关处理、不动数据：`--pr-min-pred 50000` 丢掉"预测像素 < 5 万"的阈值（毛刺缩到几乎看不见）、`--pr-endpoint-dot` 在每条曲线末端加圆点（读作"到此为止"而非"画漏了"）；仍保留 (0,1) 哨兵，因为去掉后起点悬空（`--pr-style v2` 试过）。数据侧原因（硬零压低 recall）只能靠模型/后处理改，画图解决不了，分析见 [docs/Seal_ROC_PR曲线.md](docs/Seal_ROC_PR曲线.md)；**补充图 `v13_20261105/pr_1.{png,pdf}`**（`--pr-close`）把每条曲线从最后实测点**虚线**外推到 `(1,0)`、交接点画空心圆（实线=实测、虚线=外推）：这不是新数据，只说明"曲线本来就该到 (1,0)"——`recall=1` 时 precision 等于前景占比（Seal test 前景 105,712 px / 总 514,338,642 px = **2.06×10⁻⁴**），在 0–1 纵轴上即 0，所以补到 (1,0) 与补到 (1,2e-4) 肉眼无差；中间段按直线近似故称"大致"，虚线段不参与 pAUC/AP 积分，排名不变；补齐后各虚线在右下角**收成一束**是应有现象，不表示方法接近；**教科书式 P-R 两张补充图**：`v13_20261105/pr_2.{png,pdf}`（像素级、sklearn 惯例：256 个阈值含 `t=0`"全预测"、保留 (0,1) 哨兵，曲线自然终止于 (1,0)，AP 与 summary 一致 0.69984）与 `v13_20261105/pr_obj.{png,pdf}`（**对象级**：`recall` = 表中 Pd、`precision` = 匹配连通域 / 全部预测连通域，匹配规则与 Pd/Fa 相同；`t=128` 的 recall 与表中 Pd 逐位吻合、精度 Ours 0.960 vs 基线 0.66–0.75，Ours AP 0.890 vs 0.544–0.596，形状与参考图同形"高平台 + 右端陡降"，末端用实线同色补到 (1,0)、不画点、拐角 `--corner-radius 0.03` 贝塞尔倒角，**图例只写方法名**（AP 见 [docs/Seal_ROC_PR曲线.md](docs/Seal_ROC_PR曲线.md) 的表，要标回图上加 `--show-ap`）；**字号**：`roc` 与 `pr_obj` 用 `--font-scale 1.25` 出图（轴标签 9→11.25 pt、刻度 8→10 pt、图例 6.4→8 pt），两张 PNG 同为 3645×1907（`plot_roc_pr.py`、`plot_pr_object.py` 都带该开关，默认 1.0；v13 的 `pr.png`/`roc_pr.png` 仍是 1.0 版）；图注须写明 0.71–0.92 → 1.0 那段不是实测，因对象级召回上限只有 0.71–0.92））；实现 [tools/target_pr.py](tools/target_pr.py)（输出 `results/target_pr/<stem>.json`，[tools/target_pr_all.sh](tools/target_pr_all.sh) 并行约 12 min）、[tools/plot_pr_object.py](tools/plot_pr_object.py)、[tools/plot_pr_textbook.py](tools/plot_pr_textbook.py)；**参考图"精度贴 1.0 平推"像素级做不到**——0.02 % 前景下 255 这一筒的精度只有 Ours 0.835、SAM3 0.651、DNA-Net 0.390，像素级只能从 0.83 起步；正文若配像素级 ROC 用 `pr_2`，配目标级 Pd–Fa（v12）用 `pr_obj`，两者 AP 不可互比、都不进 xlsx；图例贴紧坐标轴右缘（`bbox_to_anchor=(ax.x1+0.012, …)`，锚在固定图幅比例上会留一大片空白）；`--highlight` 指定加粗置顶的方法（默认 `Ours`，方法集里没有它时不加粗）；**红色只留给 highlight**，其余曲线从不含红色的 16 色调色板里取（`color_map()`），否则 14 条曲线时第一个基线和 Ours 会同为红色。**一致性**：像素级 `t=128` 的 precision/recall 可复原表中 F1/IoU（Ours precision 0.58130、recall 0.82963 → F1 0.68361、IoU 0.51931，与第 20 行一致；旧预测同点为 0.64637/0.59388 → 0.61912/0.44835）；目标级 `t=128` 的 Pd/Fa 与表中 13 行全部逐位吻合（Ours 0.89151 / 1.717e-05，与第 20 行一致；旧预测 0.82731 / 2.100e-06 存档于 `results/target_curves/Ours_prev_20261105.json`）。**读图**：① 面积指标报 **pAUC@5×10⁻⁴**（基线操作点 Fa@t=128 ≤ 2.4×10⁻⁴）；v8 换上 1105 的最新 Ours 后，两个窗口的 pAUC（**0.85234 / 0.89420**）与 AP（**0.69984**）都第一，像素 TPR@t=128 从 0.594 提到 **0.830**、FPR 从 6.7×10⁻⁵ 升到 1.2×10⁻⁴（仍是 9 个里第二低）；ROC 上 Ours 在 FPR≈3×10⁻⁴ 就到 0.94 平台，其余 8 个最高只有 0.737；SAM3 平台最高（0.737）但拐点在 4.9×10⁻⁴、Fa 是 Ours 的 3.6 倍，属"用更多误检换更高检出"，正文要把 Fa 一并给出；画到 8×10⁻⁴ 后按窗口积的 `pAUC@8×10⁻⁴` 会把弥散输出方法抬高，summary 两个窗口都列；② 全范围 AUC 不能用来排名（几乎不预测前景的方法 0.977–0.981），与 S/MAE 被背景主导同类；③ 目标级图（`v12_20261105/`，1105 批次）Ours 平台 Pd 0.922 最高、拐点 Fa 6.0×10⁻⁶ 比次优 HDNet（5.2×10⁻⁵）低 8.6 倍，拐点 Fa 跨度 17 倍，**目标级仍主推 log 轴**；④ 像素级 `Pd@t=128` 是前景像素召回率，与表中目标级 Pd 不同口径。曲线成品按同样目录结构同步到服务器 `Ours/roc_pr/`，重画脚本同步在服务器 `tools/`；1105 的 Ours 预测包同时上传到服务器 `Ours/1105Ours_result/Ours.zip`。**曲线与第 20 行 Ours 的八项指标现在同为 1105 这批预测**，可以互相引证；旧预测（`test_maps_20261105_prev`）的曲线与指标只作历史对照。口径、版本对照与复现命令见 [docs/Seal_ROC_PR曲线.md](docs/Seal_ROC_PR曲线.md)，预览 `docs/assets/seal_roc_pr_v13.png`（现行，全量 14 条）、`docs/assets/seal_roc_pr_v10.png`（8 个对比方法版）、`docs/assets/seal_pd_fa_v12.png`（现行目标级）、`docs/assets/seal_pd_fa_v3.png`（旧预测目标级）。
+- ROC / P-R / Pd–Fa 曲线：像素级曲线用 [tools/roc_hist.py](tools/roc_hist.py) 把预测值按 GT 前景（`gt > 127`）/背景分箱成 256 桶直方图（[tools/roc_hist_all.sh](tools/roc_hist_all.sh) → `results/roc_hist/<Method>.json`），目标级曲线用 [tools/target_curves.py](tools/target_curves.py) 在 63 个阈值上做 8 连通 + 质心 <3 px 一对一匹配（[tools/target_curves_all.sh](tools/target_curves_all.sh) 13 进程并行约 1.5 h → `results/target_curves/<Method>.json`）；出图分别是 [tools/plot_roc_pr.py](tools/plot_roc_pr.py) 与 [tools/plot_target_curves.py](tools/plot_target_curves.py)。产物按版本存 `Ours/roc_pr/<version>/`，**`v10_20261105/`（正文主图，Ours + 8 个重点对比方法：DNA-Net / MSHNet / RPCANet / HDNet / L2SKNet / BGM / RPCANet++ / SAM3）与 `v11_20261105/`（全量 14 条：再加 UIU-Net / SCTransNet / ILNet / DRPCA-Net / DURD）**，两者横轴都改成 **0–16×10⁻⁴（刻度 0/4/8/12/16）**，斜线因此更陡；**v10 用 1:1 坐标框（`--square`），v11 用 6.8×3.3 的长方形画布（不带 `--square`，约 1.92:1，用户偏好）**；`v9_20261105/`（全量）与 `v8_20261105/`（8 个）是 8×10⁻⁴ 宽扁版式的前身**，画法沿用 v5，Ours 红色加粗置顶（`--highlight Ours`）；`v7_20261105/` 是旧 Ours 预测的同一版式，`v6_20261105/` 是误删 Ours 的一版，二者仅留档；`v5_20261105/` 为 13 方法版（Ours + 12 基线），**`v12_20261105/` 为现行目标级 Pd–Fa（1105 批次，线性 + log）**，**`v13_20261105/` 是 v11 的 P-R 改进版**（画布、ROC 与 v11 逐点相同，只改 P-R 的显示：`--pr-min-pred 50000` + `--pr-endpoint-dot`，见下条），`v3_20261105/` 为旧预测的目标级版，`v4/v2/v1` 留档；每次同时存 PNG（600 dpi）与 PDF + `curves.json` + `summary.md`。**画法（用户明确要求）**：每个方法一条折线且只有两段直线——`(0,0) → 拐点 → (右边框, 平台)`；平台取右边框处的值（像素级 = TPR@FPR=窗口右端，目标级 = max Pd），拐点 = 沿横轴升序第一个 ≥0.98×平台 的点（`--two-segment`、`--knee-frac`）。横轴要够长（v10/v11 用 `--xmax 16e-4 --fig-width 4.8 --square`；v8/v9 为 `--xmax 8e-4 --fig-width 6.8`），否则平台贴右边框、看起来"戛然而止"；**`--square` 把坐标框设成 1:1**（`set_box_aspect(1)`），ROC 的斜线与纵轴夹角更小、P-R 是标准 45°；**`--legend-inside` 把图例放进坐标框**（ROC 右下、P-R 左下，>9 条自动两列），导出的 PNG 因此更紧凑（v10 正方形 2645×2564；v11 长方形 3589×1871）；两联图 `roc_pr` 的面板间距 0.28→0.14；改横轴时平台值按新的右边框取（`TPR@窗口右端`），所以 8→16×10⁻⁴ 后 SCTransNet/ILNet/UIU-Net 的平台从 0.88 升到 0.94；**面积指标仍报 `pAUC@5×10⁻⁴`**，该列不随画宽变化；P-R 保留 (0,1) 起点与 recall→1 的尾巴（`--pr-style v1`）；**P-R 为什么像"扇子且在半空截断"（v13 处理）**：Seal 预测是 8 位量化 + 大量硬零（`t=255` 时前景召回只有 0.25–0.61，多数方法在 28–57 % 的 GT 像素上恒为 0），recall 到不了 1，曲线右端自然停住；同时 `t` 接近 255 时整幅只剩几千个预测像素，precision 由个位数像素决定，于是 recall≈0 处冒出竖直毛刺、各条曲线分叉成扇面。v13 用两个**纯显示**开关处理、不动数据：`--pr-min-pred 50000` 丢掉"预测像素 < 5 万"的阈值（毛刺缩到几乎看不见）、`--pr-endpoint-dot` 在每条曲线末端加圆点（读作"到此为止"而非"画漏了"）；仍保留 (0,1) 哨兵，因为去掉后起点悬空（`--pr-style v2` 试过）。数据侧原因（硬零压低 recall）只能靠模型/后处理改，画图解决不了，分析见 [docs/Seal_ROC_PR曲线.md](docs/Seal_ROC_PR曲线.md)；**补充图 `v13_20261105/pr_1.{png,pdf}`**（`--pr-close`）把每条曲线从最后实测点**虚线**外推到 `(1,0)`、交接点画空心圆（实线=实测、虚线=外推）：这不是新数据，只说明"曲线本来就该到 (1,0)"——`recall=1` 时 precision 等于前景占比（Seal test 前景 105,712 px / 总 514,338,642 px = **2.06×10⁻⁴**），在 0–1 纵轴上即 0，所以补到 (1,0) 与补到 (1,2e-4) 肉眼无差；中间段按直线近似故称"大致"，虚线段不参与 pAUC/AP 积分，排名不变；补齐后各虚线在右下角**收成一束**是应有现象，不表示方法接近；**教科书式 P-R 两张补充图**：`v13_20261105/pr_2.{png,pdf}`（像素级、sklearn 惯例：256 个阈值含 `t=0`"全预测"、保留 (0,1) 哨兵，曲线自然终止于 (1,0)，AP 与 summary 一致 0.69984）与 `v13_20261105/pr_obj.{png,pdf}`（**对象级**：`recall` = 表中 Pd、`precision` = 匹配连通域 / 全部预测连通域，匹配规则与 Pd/Fa 相同；`t=128` 的 recall 与表中 Pd 逐位吻合、精度 Ours 0.960 vs 基线 0.66–0.75，Ours AP 0.890 vs 0.544–0.596，形状与参考图同形"高平台 + 右端陡降"，末端用实线同色补到 (1,0)、不画点、拐角 `--corner-radius 0.03` 贝塞尔倒角，**图例只写方法名**（AP 见 [docs/Seal_ROC_PR曲线.md](docs/Seal_ROC_PR曲线.md) 的表，要标回图上加 `--show-ap`）；**字号**：`roc` 与 `pr_obj` 用 `--font-scale 1.25` 出图（轴标签 9→11.25 pt、刻度 8→10 pt、图例 6.4→8 pt），画幅同步收窄到 **1.62:1**（`--fig-width 5.6`，高度固定 3.3；pr_obj 用 5.487×3.239 对齐），两张 PNG 同为 3087×1907（`plot_roc_pr.py`、`plot_pr_object.py` 都带 `--font-scale`，默认 1.0；v13 的 `pr.png`/`roc_pr.png` 仍是 1.0 版、1.92:1 宽幅）；图注须写明 0.71–0.92 → 1.0 那段不是实测，因对象级召回上限只有 0.71–0.92））；实现 [tools/target_pr.py](tools/target_pr.py)（输出 `results/target_pr/<stem>.json`，[tools/target_pr_all.sh](tools/target_pr_all.sh) 并行约 12 min）、[tools/plot_pr_object.py](tools/plot_pr_object.py)、[tools/plot_pr_textbook.py](tools/plot_pr_textbook.py)；**参考图"精度贴 1.0 平推"像素级做不到**——0.02 % 前景下 255 这一筒的精度只有 Ours 0.835、SAM3 0.651、DNA-Net 0.390，像素级只能从 0.83 起步；正文若配像素级 ROC 用 `pr_2`，配目标级 Pd–Fa（v12）用 `pr_obj`，两者 AP 不可互比、都不进 xlsx；图例贴紧坐标轴右缘（`bbox_to_anchor=(ax.x1+0.012, …)`，锚在固定图幅比例上会留一大片空白）；`--highlight` 指定加粗置顶的方法（默认 `Ours`，方法集里没有它时不加粗）；**红色只留给 highlight**，其余曲线从不含红色的 16 色调色板里取（`color_map()`），否则 14 条曲线时第一个基线和 Ours 会同为红色。**一致性**：像素级 `t=128` 的 precision/recall 可复原表中 F1/IoU（Ours precision 0.58130、recall 0.82963 → F1 0.68361、IoU 0.51931，与第 20 行一致；旧预测同点为 0.64637/0.59388 → 0.61912/0.44835）；目标级 `t=128` 的 Pd/Fa 与表中 13 行全部逐位吻合（Ours 0.89151 / 1.717e-05，与第 20 行一致；旧预测 0.82731 / 2.100e-06 存档于 `results/target_curves/Ours_prev_20261105.json`）。**读图**：① 面积指标报 **pAUC@5×10⁻⁴**（基线操作点 Fa@t=128 ≤ 2.4×10⁻⁴）；v8 换上 1105 的最新 Ours 后，两个窗口的 pAUC（**0.85234 / 0.89420**）与 AP（**0.69984**）都第一，像素 TPR@t=128 从 0.594 提到 **0.830**、FPR 从 6.7×10⁻⁵ 升到 1.2×10⁻⁴（仍是 9 个里第二低）；ROC 上 Ours 在 FPR≈3×10⁻⁴ 就到 0.94 平台，其余 8 个最高只有 0.737；SAM3 平台最高（0.737）但拐点在 4.9×10⁻⁴、Fa 是 Ours 的 3.6 倍，属"用更多误检换更高检出"，正文要把 Fa 一并给出；画到 8×10⁻⁴ 后按窗口积的 `pAUC@8×10⁻⁴` 会把弥散输出方法抬高，summary 两个窗口都列；② 全范围 AUC 不能用来排名（几乎不预测前景的方法 0.977–0.981），与 S/MAE 被背景主导同类；③ 目标级图（`v12_20261105/`，1105 批次）Ours 平台 Pd 0.922 最高、拐点 Fa 6.0×10⁻⁶ 比次优 HDNet（5.2×10⁻⁵）低 8.6 倍，拐点 Fa 跨度 17 倍，**目标级仍主推 log 轴**；④ 像素级 `Pd@t=128` 是前景像素召回率，与表中目标级 Pd 不同口径。曲线成品按同样目录结构同步到服务器 `Ours/roc_pr/`，重画脚本同步在服务器 `tools/`；1105 的 Ours 预测包同时上传到服务器 `Ours/1105Ours_result/Ours.zip`。**曲线与第 20 行 Ours 的八项指标现在同为 1105 这批预测**，可以互相引证；旧预测（`test_maps_20261105_prev`）的曲线与指标只作历史对照。口径、版本对照与复现命令见 [docs/Seal_ROC_PR曲线.md](docs/Seal_ROC_PR曲线.md)，预览 `docs/assets/seal_roc_pr_v13.png`（现行，全量 14 条）、`docs/assets/seal_roc_pr_v10.png`（8 个对比方法版）、`docs/assets/seal_pd_fa_v12.png`（现行目标级）、`docs/assets/seal_pd_fa_v3.png`（旧预测目标级）。
 - IoU 的边界敏感性：Seal 目标平均 14.3 像素，把 GT 膨胀/腐蚀 1 像素当预测只能得到 IoU 0.3910 / 0.0826；表中 IoU 0.19–0.31 对应约 1–2 像素边界误差，不能读作分割质量百分比，须与 Fw/F1/Pd/Fa 合看，详见 [定义对照](docs/小目标评价指标_定义与代码对照.md#iou-的边界敏感性seal-gt-实测)。
 - 实验记录：[ACM](docs/ACM_Seal实验记录.md)、[DNA-Net](docs/DNANet_Seal实验记录.md)、[MSHNet](docs/MSHNet_Seal实验记录.md)、[UIU-Net](docs/UIU-Net_Seal实验记录.md)、[SCTransNet](docs/SCTransNet_Seal实验记录.md)、[RPCANet](docs/RPCANet_Seal实验记录.md)、[HDNet](docs/HDNet_Seal实验记录.md)、[ILNet](docs/ILNet_Seal实验记录.md)、[RPCANet++](docs/RPCANet++_Seal实验记录.md)、[L2SKNet](docs/L2SKNet_Seal实验记录.md)、[BGM](docs/BGM_Seal实验记录.md)、[DRPCA-Net](docs/DRPCA-Net_Seal实验记录.md)、[DURD](docs/DURD_Seal实验记录.md)、[DHiF](docs/DHiF_Seal实验记录.md)，汇总见 [Seal全监督基线评估汇总](docs/Seal全监督基线评估汇总.md)，定性图见 [Seal定性对比图](docs/Seal定性对比图.md)。
 
